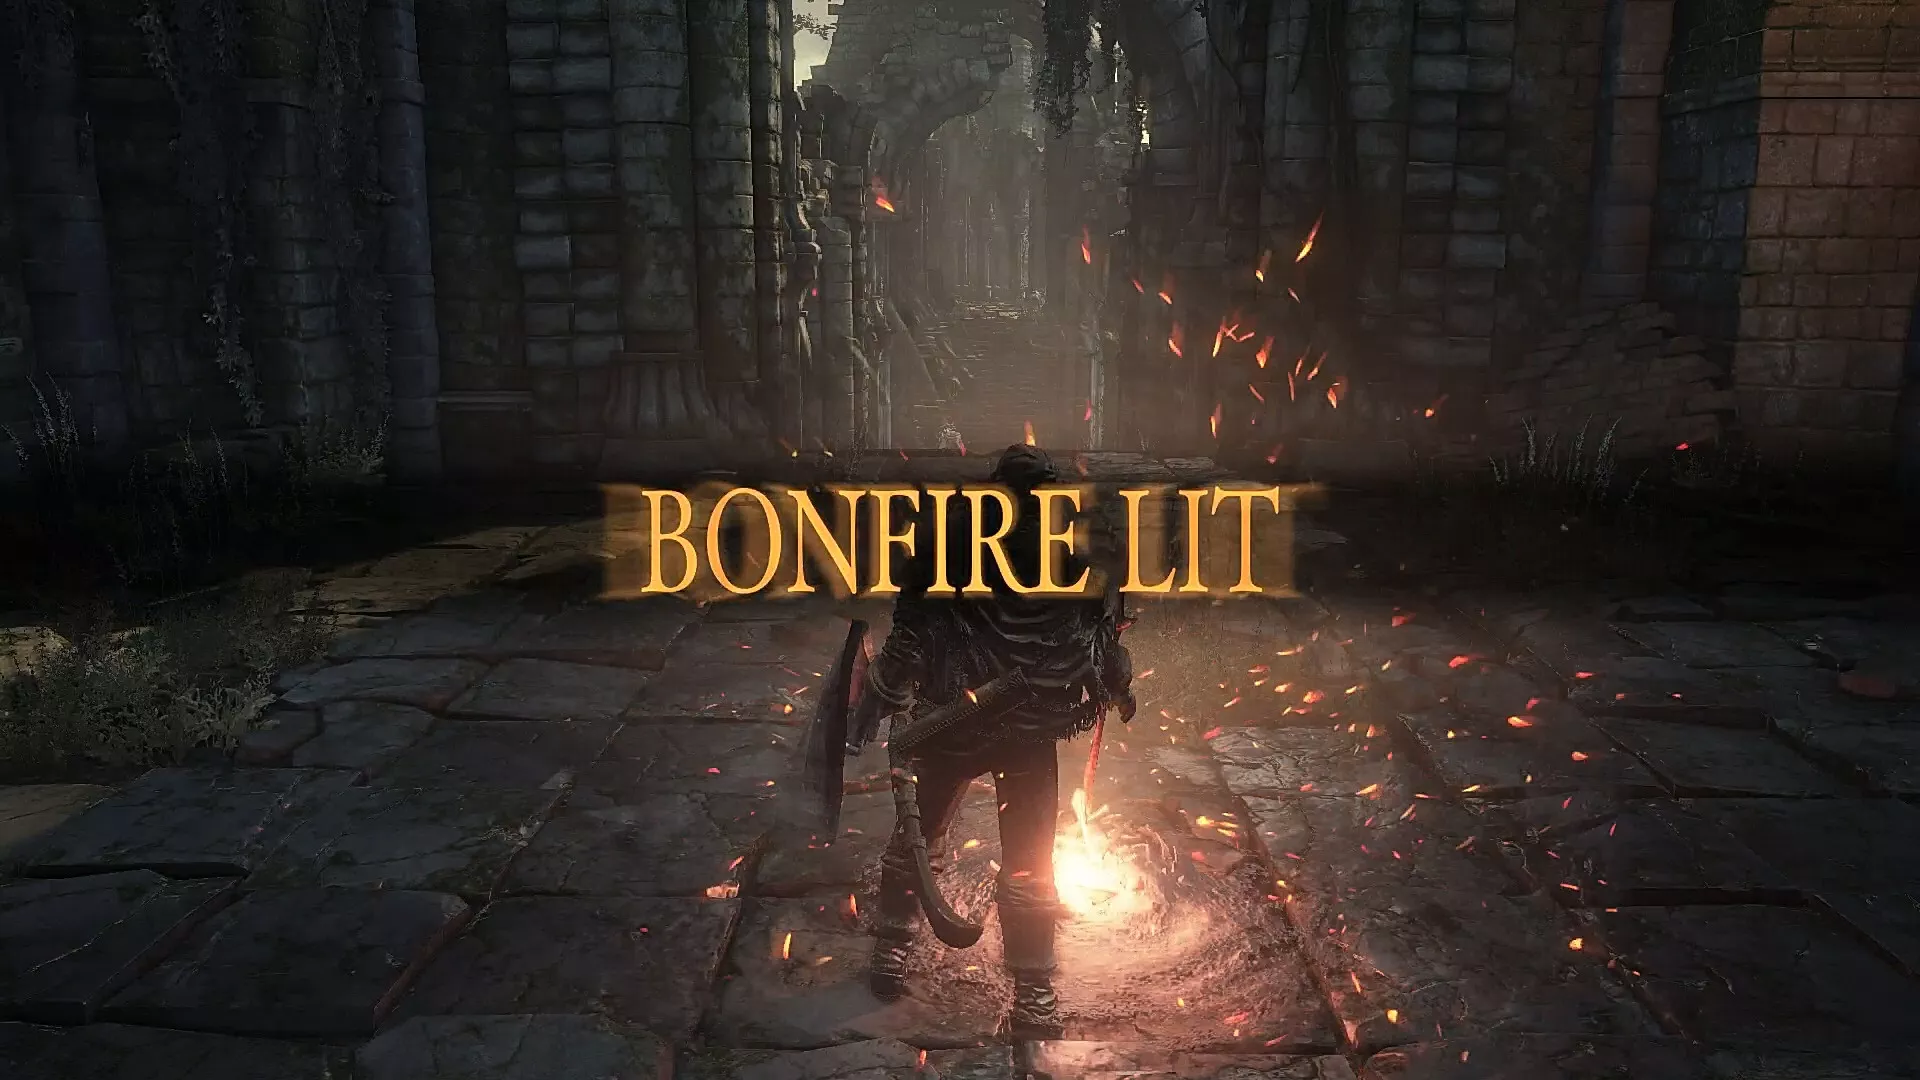
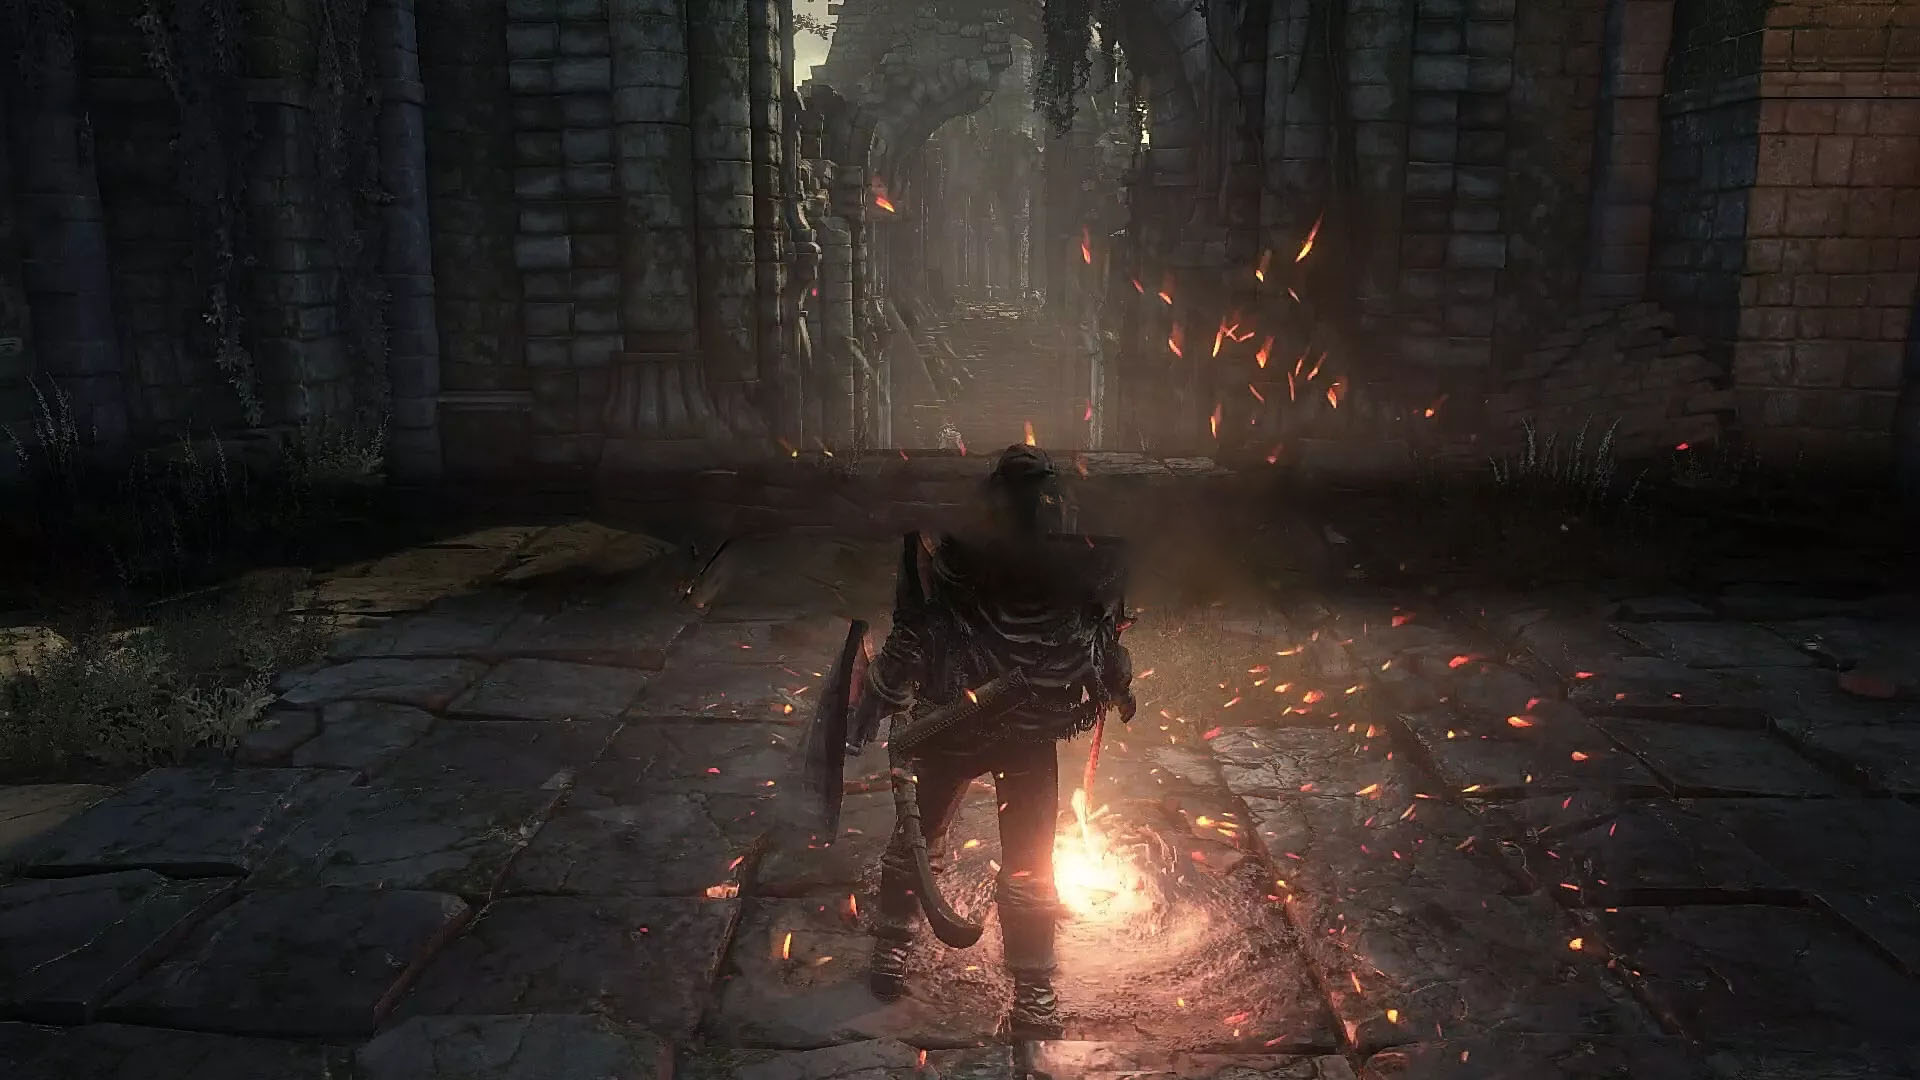
Photoshop original text out of the base image. Remove extraneous <p>. Update script to also draw text to the canvas.

Changed region(s): [[0.3125, 0.4278, 0.6875, 0.5806]]

diff --git a/index.html b/index.html
@@ -3,10 +3,8 @@
 
 <head>
   <meta charset="UTF-8">
-  <meta name="viewport" content="width=device-width, initial-scale=1.0">
   <script src="js/main.js"></script>
   <title>Bonfire Lit</title>
-
   <style>
     @font-face {
       font-family: OptimusPrinceps;
@@ -16,10 +14,7 @@
 </head>
 
 <body>
-  <canvas id="myBonfireLitCanvas"></canvas>
-  <p style="font-family: OptimusPrinceps; font-size: 50px;">
-    BONFIRE LIT
-  </p>
+  <canvas id="myBonfireLitCanvas" width="1280" height="720"></canvas>
 </body>
 
 </html>

diff --git a/js/main.js b/js/main.js
@@ -5,6 +5,10 @@ function doWork() {
     var myImg = new Image();
     myImg.onload = function () {
         context.drawImage(myImg, 0, 0, 1270, 720);
+        context.font = "72px OptimusPrinceps";
+        context.fillStyle = "#f8c35b";
+        context.textAlign = "center";
+        context.fillText("FOLHA DE PONTO PREENCHIDA", canvas.width / 2, (canvas.height / 2) + 20);
     };
     myImg.src = 'img/bonfire_lit.jpg';
 }
